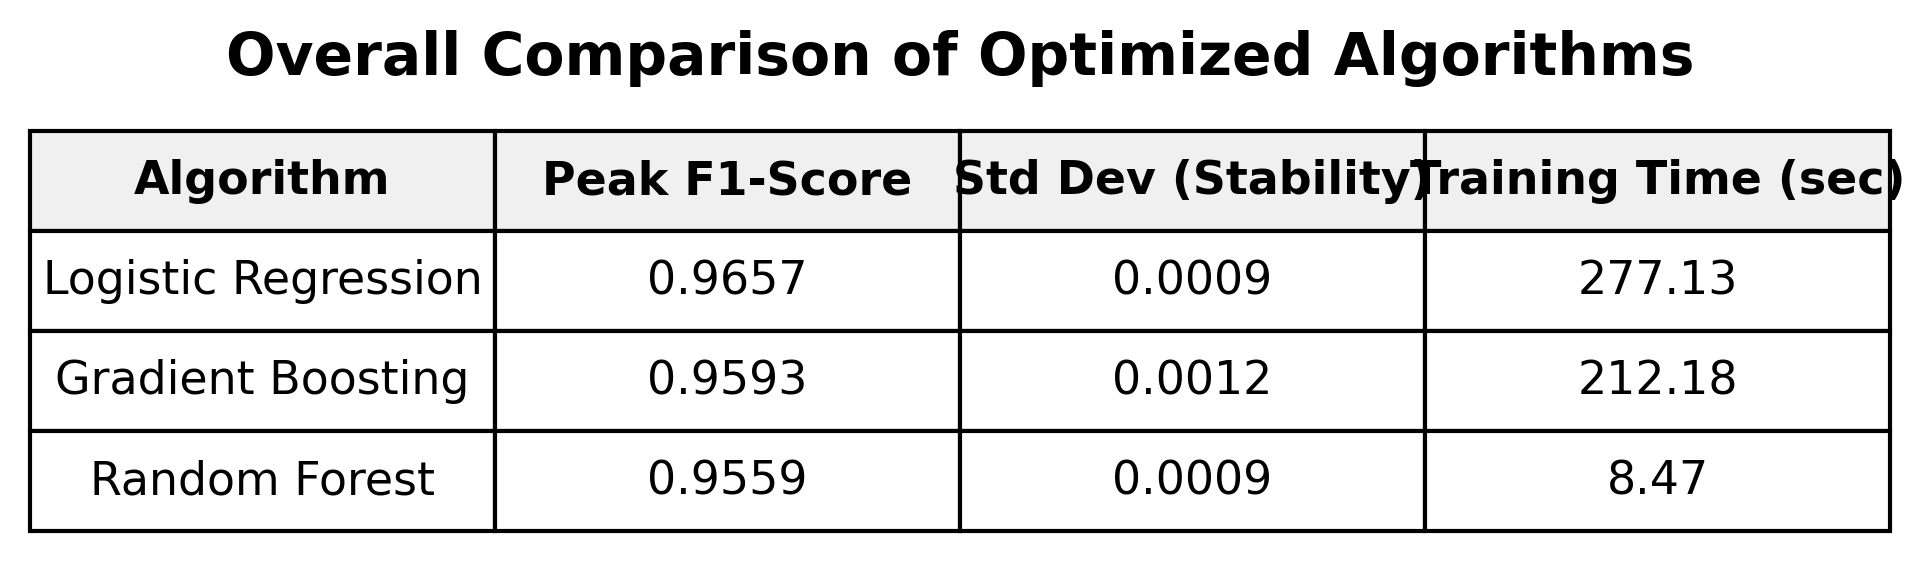
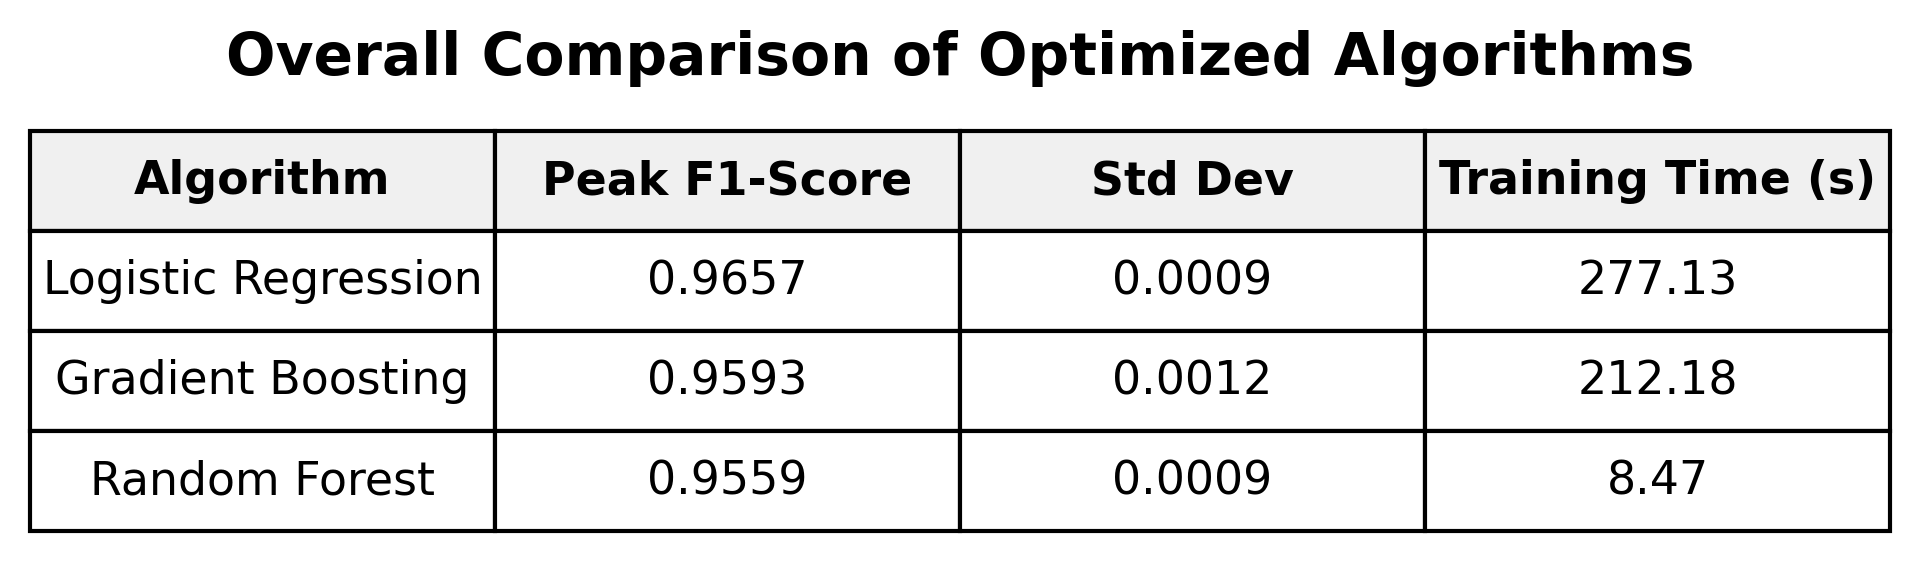
updated scripts

Changed region(s): [[0.4919, 0.2727, 1.0, 0.3636]]

diff --git a/logs/cofusion_matrices.py b/logs/cofusion_matrices.py
@@ -1,0 +1,79 @@
+import os
+import joblib
+import pandas as pd
+import numpy as np
+import matplotlib.pyplot as plt
+import seaborn as sns
+from sklearn.metrics import confusion_matrix
+from src.ml_trainer import load_data, encode_labels, split_data, MODEL_DIR
+
+
+def export_cm_pngs():
+    print("Loading data...")
+    # Load the same data used for training
+    X, y, features = load_data("combined")
+    y_encoded, le = encode_labels(y)
+    X_train, X_test, y_train, y_test = split_data(X, y_encoded)
+
+    classes = le.classes_
+
+    # Models to evaluate
+    models_to_plot = {
+        "Random Forest": "random_forest.pkl",
+        "Gradient Boosting": "gradient_boosting.pkl",
+        "Logistic Regression": "logistic_regression.pkl"
+    }
+
+    for model_name, filename in models_to_plot.items():
+        model_path = os.path.join(MODEL_DIR, filename)
+        if not os.path.exists(model_path):
+            print(f"Skipping {model_name}: {filename} not found.")
+            continue
+
+        print(f"Generating Confusion Matrix for {model_name}...")
+
+        # Load model and predict
+        data = joblib.load(model_path)
+        clf = data["model"]
+        y_pred = clf.predict(X_test)
+
+        # Generate raw confusion matrix
+        cm = confusion_matrix(y_test, y_pred)
+
+        # Normalize the confusion matrix (percentages instead of raw counts)
+        row_sums = cm.sum(axis=1, keepdims=True).astype(float)
+        cm_norm = np.divide(cm, row_sums, out=np.zeros_like(cm, dtype=float), where=row_sums != 0)
+
+        # --- Plotting ---
+        # Make the figure large enough to fit all medical conditions
+        plt.figure(figsize=(16, 12))
+
+        # Create a beautiful heatmap
+        sns.heatmap(
+            cm_norm,
+            annot=False,  # Set to True if you want numbers inside the boxes, but with 40 classes it gets messy
+            cmap="Blues",
+            xticklabels=classes,
+            yticklabels=classes,
+            linewidths=.5,
+            linecolor='lightgray'
+        )
+
+        plt.title(f'Normalized Confusion Matrix: {model_name}', fontsize=18, pad=20, weight='bold')
+        plt.ylabel('True Medical Condition', fontsize=14, weight='bold')
+        plt.xlabel('Predicted Medical Condition', fontsize=14, weight='bold')
+
+        # Rotate x-labels so they don't overlap
+        plt.xticks(rotation=90, fontsize=9)
+        plt.yticks(rotation=0, fontsize=9)
+
+        plt.tight_layout()
+
+        output_file = os.path.join("", f"{model_name.replace(' ', '_').lower()}_confusion_matrix.png")
+        plt.savefig(output_file, dpi=300, bbox_inches='tight')
+        print(f"--> Saved to: {output_file}")
+        plt.close()
+
+
+if __name__ == "__main__":
+    export_cm_pngs()

diff --git a/logs/compare_best_metrics.py b/logs/compare_best_metrics.py
@@ -31,13 +31,13 @@ def generate_comparison_table():
 
     comparison_df = comparison_df.rename(columns={
         'Mean_F1_Score': 'Peak F1-Score',
-        'Std_Dev_F1': 'Std Dev (Stability)',
-        'Mean_Fit_Time_sec': 'Training Time (sec)'
+        'Std_Dev_F1': 'Std Dev',
+        'Mean_Fit_Time_sec': 'Training Time (s)'
     })
 
     comparison_df['Peak F1-Score'] = pd.to_numeric(comparison_df['Peak F1-Score'], errors='coerce').round(4)
-    comparison_df['Std Dev (Stability)'] = pd.to_numeric(comparison_df['Std Dev (Stability)'], errors='coerce').round(4)
-    comparison_df['Training Time (sec)'] = pd.to_numeric(comparison_df['Training Time (sec)'], errors='coerce').round(2)
+    comparison_df['Std Dev'] = pd.to_numeric(comparison_df['Std Dev'], errors='coerce').round(4)
+    comparison_df['Training Time (s)'] = pd.to_numeric(comparison_df['Training Time (s)'], errors='coerce').round(2)
 
     print("\n### Ultimate Model Comparison (Rank 1 Only)")
     print(comparison_df.to_markdown(index=False))
